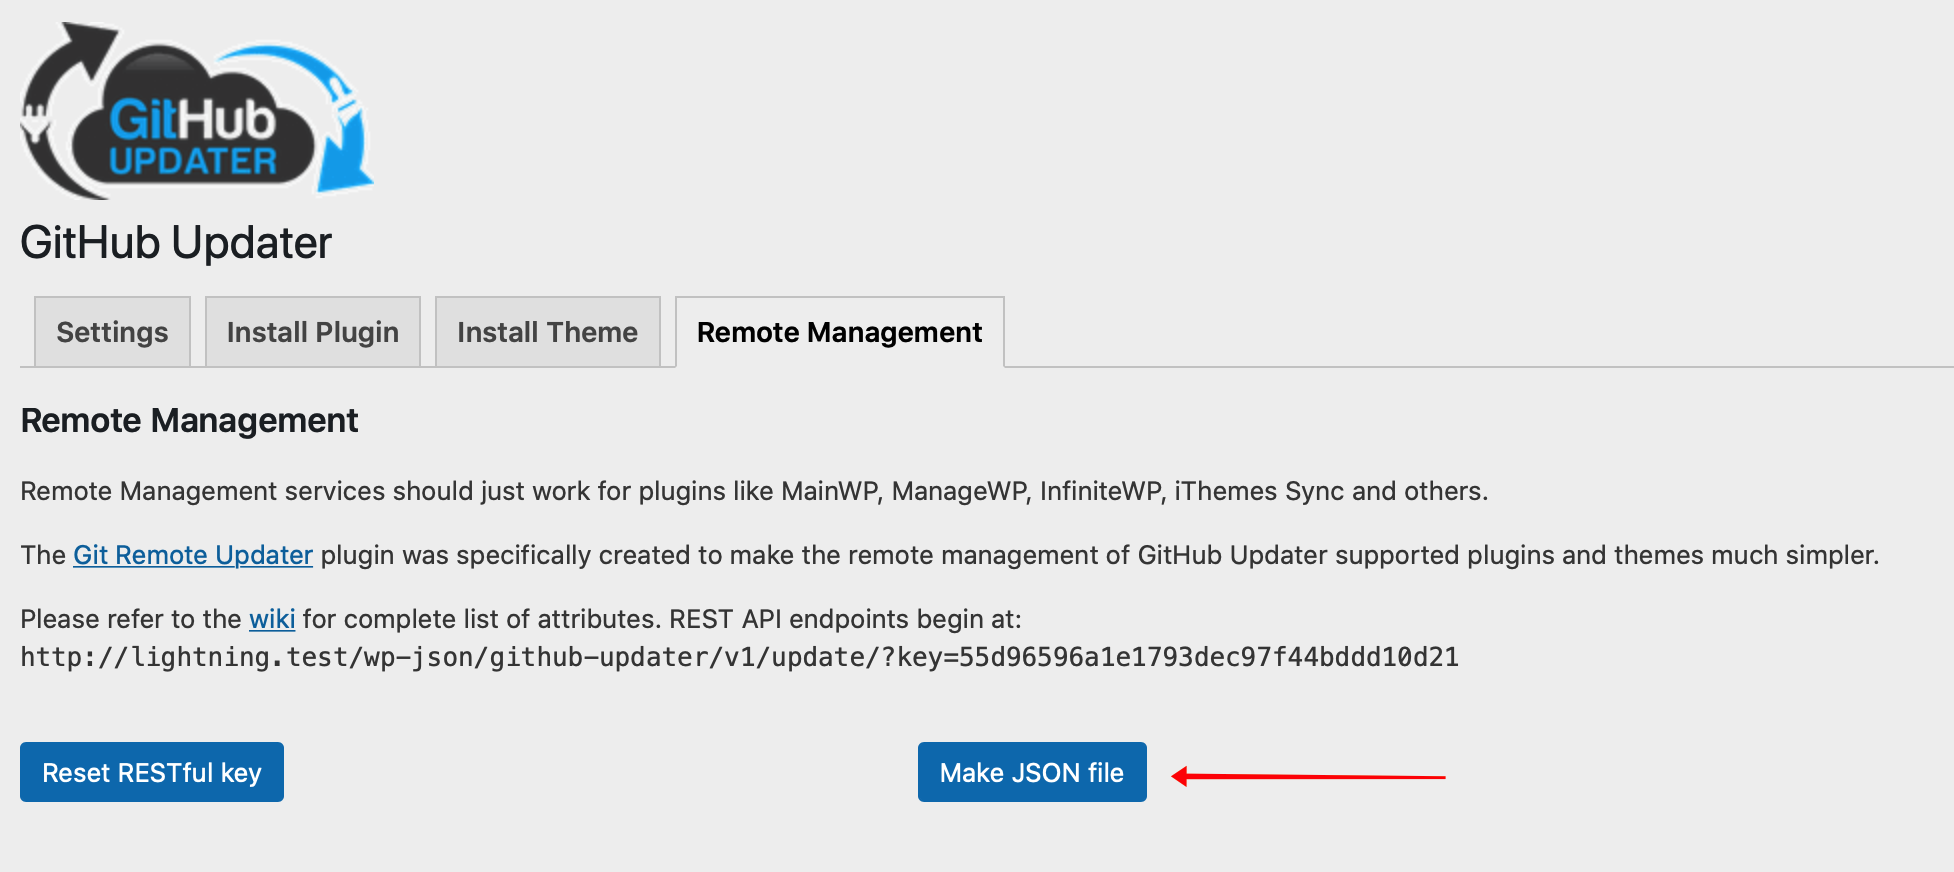
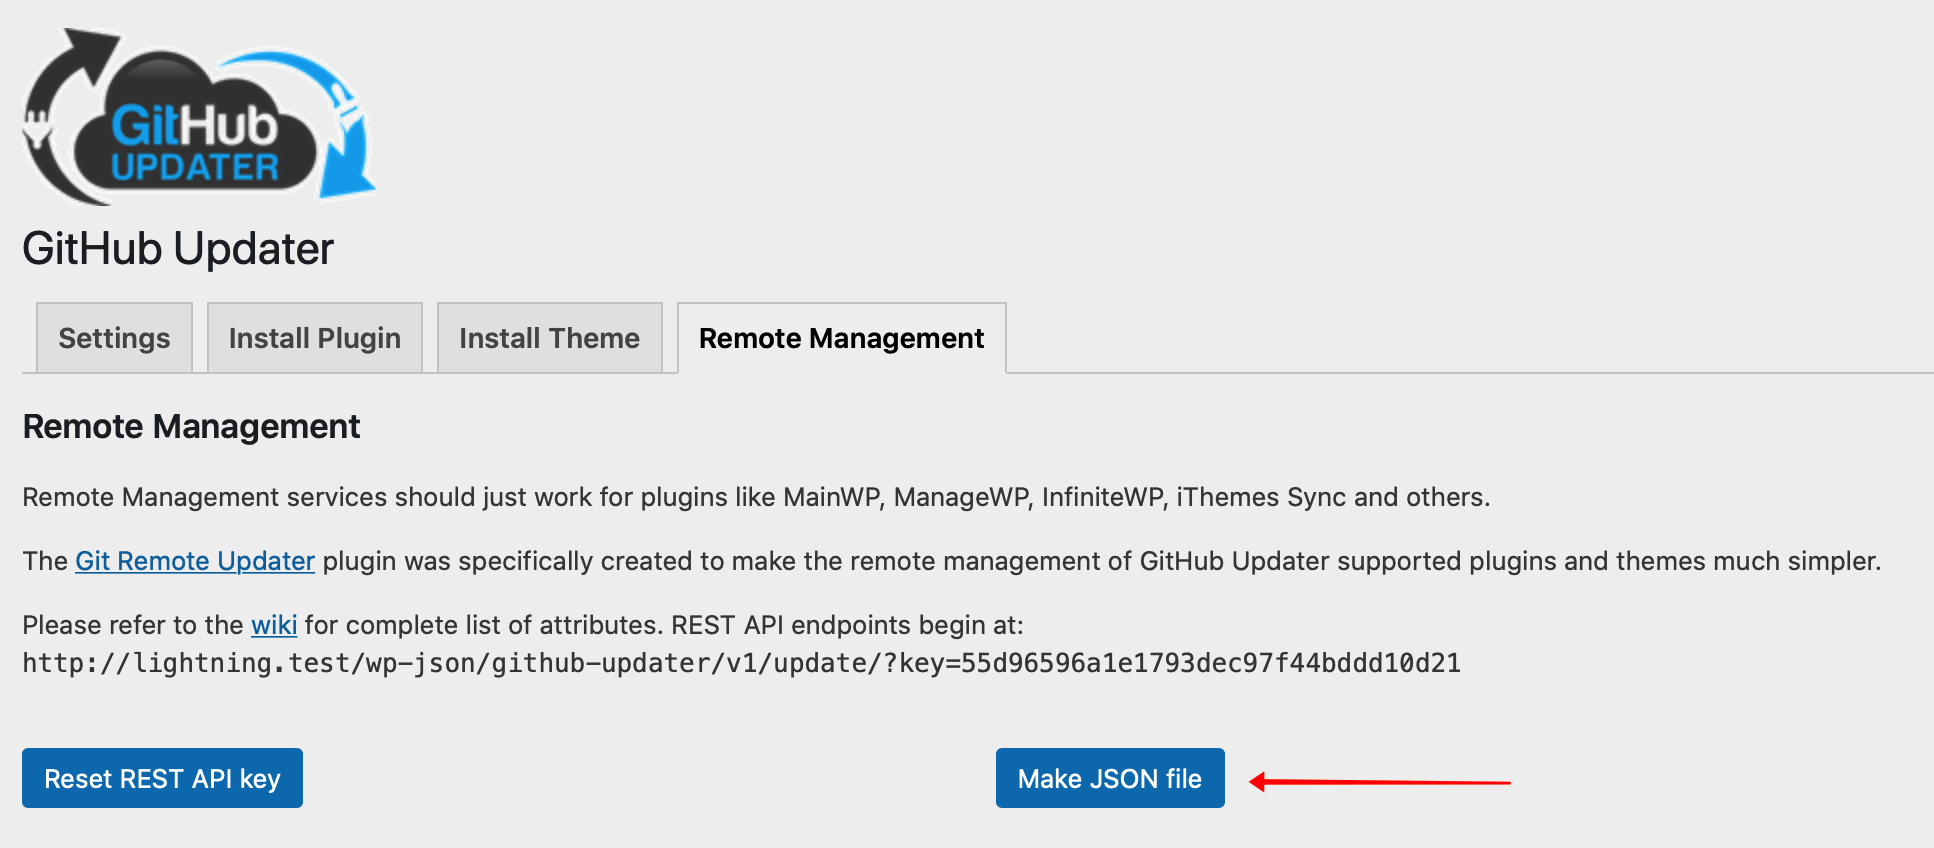
new text for resetting REST API key

diff --git a/src/GitHub_Updater/Remote_Management.php b/src/GitHub_Updater/Remote_Management.php
@@ -157,7 +157,7 @@ class Remote_Management {
 			$reset_api_action = add_query_arg( [ 'github_updater_reset_api_key' => true ], $action );
 			?>
 			<form class="settings no-sub-tabs" method="post" action="<?php esc_attr_e( $reset_api_action ); ?>">
-				<?php submit_button( esc_html__( 'Reset RESTful key', 'github-updater' ) ); ?>
+				<?php submit_button( esc_html__( 'Reset REST API key', 'github-updater' ) ); ?>
 			</form>
 			<?php
 			$make_json = add_query_arg( [ 'github_updater_make_json_file' => true ], $action );
